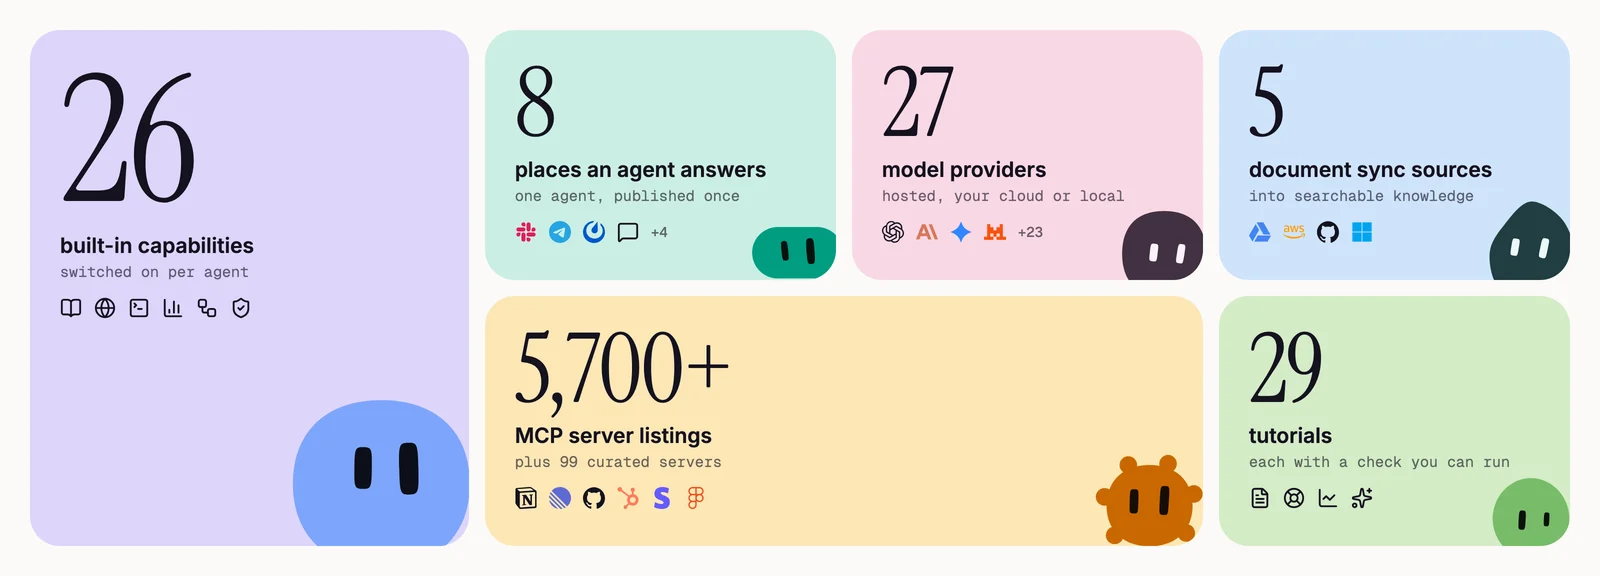
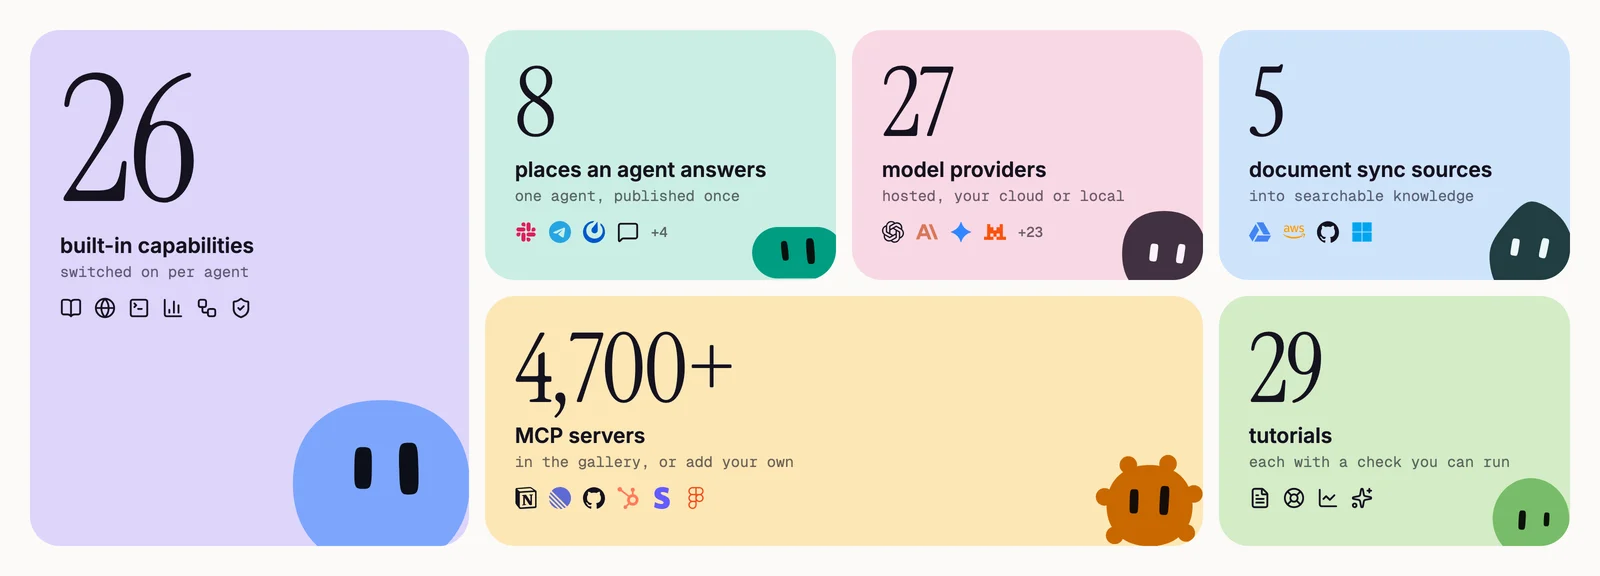
docs: quote one MCP count, the gallery's
The README, the figures, the tour, llms.txt and the features and MCP
pages each said 99 curated servers plus 5,700+ registry listings, or 5,802
in the picker. The gallery shows 4,749 - mirrored listings a check found
dead, broken or duplicated are not on it - so every place now says
4,700+ servers in the gallery and nothing else.

Changed region(s): [[0.3125, 0.5625, 0.4688, 0.7188], [0.3125, 0.75, 0.5, 0.8125]]

diff --git a/docs/assets/readme/figures.html b/docs/assets/readme/figures.html
@@ -185,7 +185,7 @@
       <div class="marks"><i class="mk" data-mark="openai"></i><i class="mk" data-mark="anthropic"></i><i class="mk" data-mark="google"></i><i class="mk" data-mark="mistral"></i><span class="more">+23</span></div><i class="cast s" data-bare="momo"></i></div>
     <div class="tile sky"><div class="n">5</div><div class="what">document sync sources</div><div class="sub">into searchable knowledge</div>
       <div class="marks"><i class="mk" data-mark="gdrive"></i><i class="mk" data-mark="s3"></i><i class="mk" data-mark="github"></i><i class="mk" data-mark="microsoft"></i></div><i class="cast s" data-bare="tofu"></i></div>
-    <div class="tile butter wide"><div class="n">5,700+</div><div class="what">MCP server listings</div><div class="sub">plus 99 curated servers</div>
+    <div class="tile butter wide"><div class="n">4,700+</div><div class="what">MCP servers</div><div class="sub">in the gallery, or add your own</div>
       <div class="marks"><i class="mk" data-mark="notion"></i><i class="mk" data-mark="linear"></i><i class="mk" data-mark="github"></i><i class="mk" data-mark="hubspot"></i><i class="mk" data-mark="stripe"></i><i class="mk" data-mark="figma"></i></div><i class="cast" data-bare="tide"></i></div>
     <div class="tile sage"><div class="n">29</div><div class="what">tutorials</div><div class="sub">each with a check you can run</div>
       <div class="marks"><i class="ico" data-icon="FileText"></i><i class="ico" data-icon="LifeBuoy"></i><i class="ico" data-icon="ChartLine"></i><i class="ico" data-icon="Sparkles"></i></div><i class="cast s" data-bare="pip"></i></div>
@@ -309,7 +309,7 @@
       <i class="cast" data-bare="agenticos" style="width:170px;height:170px;right:-40px;bottom:-60px"></i></div></div>
     <div class="tile rose right"><div class="rowhead"><span class="label">Tools it can use · MCP</span><span class="label">per-tool allow-lists</span></div>
       <div class="tools"><span><i class="mk" data-mark="notion"></i>Notion</span><span><i class="mk" data-mark="linear"></i>Linear</span><span><i class="mk" data-mark="atlassian"></i>Jira &amp; Confluence</span><span><i class="mk" data-mark="github"></i>GitHub</span><span><i class="mk" data-mark="gitlab"></i>GitLab</span><span><i class="mk" data-mark="sentry"></i>Sentry</span><span><i class="mk" data-mark="postgres"></i>PostgreSQL</span><span><i class="mk" data-mark="hubspot"></i>HubSpot</span><span><i class="mk" data-mark="asana"></i>Asana</span><span><i class="mk" data-mark="stripe"></i>Stripe</span><span><i class="mk" data-mark="supabase"></i>Supabase</span><span><i class="mk" data-mark="airtable"></i>Airtable</span><span><i class="mk" data-mark="figma"></i>Figma</span><span><i class="mk" data-mark="zapier"></i>Zapier</span><span><i class="mk" data-mark="n8n"></i>n8n</span><span><i class="mk" data-mark="clickup"></i>ClickUp</span><span><i class="mk" data-mark="trello"></i>Trello</span><span><i class="mk" data-mark="miro"></i>Miro</span><span><i class="mk" data-mark="datadog"></i>Datadog</span><span><i class="mk" data-mark="snowflake"></i>Snowflake</span><span><i class="mk" data-mark="bigquery"></i>BigQuery</span><span><i class="mk" data-mark="shopify"></i>Shopify</span><span><i class="mk" data-mark="intercom"></i>Intercom</span><span><i class="mk" data-mark="dropbox"></i>Dropbox</span></div>
-      <p style="font-size:16px"><b style="color:var(--ink)">99 curated</b> servers, of which these are 24, plus <b style="color:var(--ink)">5,700+ registry listings</b> and your own servers.</p></div>
+      <p style="font-size:16px"><b style="color:var(--ink)">4,700+ servers</b> in the gallery, of which these are 24, and your own servers.</p></div>
     <div class="tile sky bottom"><div class="rowhead"><span class="label">Documents it reads · knowledge bases</span><span class="label">synced on a schedule, or uploaded</span></div>
       <div class="chips"><span class="chip"><i class="mk" data-mark="gdrive"></i>Google Drive</span><span class="chip"><i class="mk" data-mark="s3"></i>S3 / MinIO</span><span class="chip"><i class="mk" data-mark="github"></i>Git repositories</span><span class="chip"><i class="ico" data-icon="Globe"></i>Websites</span><span class="chip"><i class="mk" data-mark="microsoft"></i>SharePoint &amp; OneDrive</span></div><i class="cast s" data-bare="tofu"></i></div>
   </div>

diff --git a/docs/presentation/tour/index.html b/docs/presentation/tour/index.html
@@ -722,7 +722,7 @@ body.presenter{background:#15121F;color:#F8F7FC;overflow:auto;display:flex;flex-
       <h3>Everything it connects to</h3><p>One layer in the middle; every connection passes the same roles, budgets, approvals and record.</p>
       <ol class="legend"><li><span><b>Models</b> it thinks with</span></li><li><span><b>Where people</b> reach it</span></li><li><span><b>What starts</b> it</span></li><li><span><b>Tools</b> it can use, through MCP</span></li><li><span><b>Documents</b> it reads</span></li></ol></div></div>
   <div class="step right mid" data-n="1" data-focus="@integrations-hub.models"><div class="card"><div class="ct"><span class="badge">1</span><span class="eyebrow">Models</span></div><h3>27 providers, switch per agent</h3><p>Hosted providers, your Azure, Bedrock or Vertex contract, or local models through Ollama and vLLM.</p></div></div>
-  <div class="step right mid" data-n="4" data-focus="@integrations-hub.tools"><div class="card"><div class="ct"><span class="badge">4</span><span class="eyebrow">Tools</span></div><h3>Your business apps, as tools</h3><p>99 curated MCP servers and 5,700+ registry listings. You choose which of a server's tools each agent may call.</p></div></div>
+  <div class="step right mid" data-n="4" data-focus="@integrations-hub.tools"><div class="card"><div class="ct"><span class="badge">4</span><span class="eyebrow">Tools</span></div><h3>Your business apps, as tools</h3><p>4,700+ MCP servers in the gallery. You choose which of a server's tools each agent may call.</p></div></div>
   <div class="step right mid" data-n="5" data-focus="@integrations-hub.documents"><div class="card"><div class="ct"><span class="badge">5</span><span class="eyebrow">Documents</span></div><h3>Knowledge that stays current</h3><p>Google Drive, S3, Git, websites, SharePoint and OneDrive, synced on a schedule into searchable knowledge bases.</p></div></div>
 </section>
 

diff --git a/README.es.md b/README.es.md
@@ -1,4 +1,4 @@
-<!-- source_sha: 09538101c2de -->
+<!-- source_sha: c69514cfbe34 -->
 
 <div align="center">
 
@@ -101,9 +101,9 @@ Funciona en tu propia infraestructura con Docker Compose y es compatible con 27 
 
 **Cómo encaja AgenticOS en una empresa:** departamentos como finanzas, operaciones o la dirección usan agentes compartidos en el chat web, Slack o un workspace privado. Tus sistemas llaman a los agentes mediante la API, y los eventos o las programaciones los inician automáticamente. Cada solicitud pasa por los mismos controles: roles, budgets, aprobaciones, guardrails y un run registrado. Tus datos, vectores, sandboxes de código, el vault de credenciales y los modelos locales opcionales permanecen en tu infraestructura. Los modelos alojados, las herramientas SaaS y las fuentes de documentos externas solo se usan cuando las configuras.
 
-<img src="docs/assets/readme/figures.webp" alt="26 capabilities integradas, activadas por agente; 8 lugares donde responde un agente; 27 providers de modelos, alojados, en tu nube o locales; 5 fuentes de sincronización de documentos; más de 5700 entradas de servidores MCP y 99 servidores seleccionados; 29 tutoriales, cada uno con una comprobación que puedes ejecutar." width="100%">
+<img src="docs/assets/readme/figures.webp" alt="26 capabilities integradas, activadas por agente; 8 lugares donde responde un agente; 27 providers de modelos, alojados, en tu nube o locales; 5 fuentes de sincronización de documentos; más de 4700 servidores MCP en la galería; 29 tutoriales, cada uno con una comprobación que puedes ejecutar." width="100%">
 
-<p align="center"><sub><b>De un vistazo:</b> 26 capabilities integradas · 8 lugares donde responde un agente · 27 providers de modelos · 5 fuentes de sincronización de documentos · más de 5700 entradas de servidores MCP y 99 servidores seleccionados · 29 tutoriales.</sub></p>
+<p align="center"><sub><b>De un vistazo:</b> 26 capabilities integradas · 8 lugares donde responde un agente · 27 providers de modelos · 5 fuentes de sincronización de documentos · más de 4700 servidores MCP en la galería · 29 tutoriales.</sub></p>
 
 ## ✨ Qué puedes hacer
 
@@ -150,7 +150,7 @@ AgenticOS conecta los agentes con los modelos, las herramientas de chat, las apl
 | Conectar | Cómo | Más información |
 |---|---|---|
 | **Herramientas de chat** | Publica un agente en Slack, Mattermost o Telegram, un widget para sitios web, una página alojada, la API o un WebSocket | [Canales](https://vstorm-co.github.io/agenticos/es/channels/) |
-| **Herramientas de negocio** | 99 servidores MCP seleccionados (Notion, GitHub, Jira, HubSpot, Stripe…) más **más de 5700 entradas del registro** y tus propios servidores; elige qué herramientas puede llamar cada agente | [MCP](https://vstorm-co.github.io/agenticos/es/mcp/) |
+| **Herramientas de negocio** | **más de 4700 servidores MCP** en la galería (Notion, GitHub, Jira, HubSpot, Stripe…) y tus propios servidores; elige qué herramientas puede llamar cada agente | [MCP](https://vstorm-co.github.io/agenticos/es/mcp/) |
 | **Documentos** | Sincroniza Google Drive, S3/MinIO, repositorios Git, sitios web, SharePoint y OneDrive en bases de conocimiento | [Fuentes de sincronización](https://vstorm-co.github.io/agenticos/es/howto/configure-sync-sources/) |
 | **Eventos** | Inicia agentes según un horario, una nueva issue de GitHub, un mensaje de Gmail o un webhook firmado | [Rutinas](https://vstorm-co.github.io/agenticos/es/triggers/) |
 | **Modelos** | 27 providers, tu contrato en la nube (Azure, Bedrock, Vertex) o modelos locales (Ollama, vLLM) | [Modelos](https://vstorm-co.github.io/agenticos/es/models/) |

diff --git a/README.pl.md b/README.pl.md
@@ -1,4 +1,4 @@
-<!-- source_sha: 09538101c2de -->
+<!-- source_sha: c69514cfbe34 -->
 
 <div align="center">
 
@@ -101,9 +101,9 @@ Działa na Twojej infrastrukturze z Docker Compose i współpracuje z 27 dostawc
 
 **Jak AgenticOS wpisuje się w firmę:** działy takie jak finanse, operacje czy zarząd korzystają ze wspólnych agentów w czacie internetowym, Slacku lub prywatnym workspace. Twoje systemy wywołują agentów przez API, a zdarzenia lub harmonogramy uruchamiają ich automatycznie. Każde żądanie przechodzi przez te same kontrole: role, budżety, zatwierdzenia, guardraile i zapis runa. Twoje dane, wektory, sandboxy kodu, vault z poświadczeniami i opcjonalne modele lokalne pozostają na Twojej infrastrukturze. Modele hostowane, narzędzia SaaS i zewnętrzne źródła dokumentów są używane tylko wtedy, gdy je skonfigurujesz.
 
-<img src="docs/assets/readme/figures.webp" alt="26 wbudowanych capabilities, włączanych dla każdego agenta osobno; 8 miejsc, w których agent odpowiada; 27 dostawców modeli: hostowanych, w Twojej chmurze lub lokalnych; 5 źródeł synchronizacji dokumentów; ponad 5700 wpisów serwerów MCP oraz 99 wybranych serwerów; 29 poradników, każdy ze sprawdzianem, który możesz uruchomić." width="100%">
+<img src="docs/assets/readme/figures.webp" alt="26 wbudowanych capabilities, włączanych dla każdego agenta osobno; 8 miejsc, w których agent odpowiada; 27 dostawców modeli: hostowanych, w Twojej chmurze lub lokalnych; 5 źródeł synchronizacji dokumentów; ponad 4700 serwerów MCP w galerii; 29 poradników, każdy ze sprawdzianem, który możesz uruchomić." width="100%">
 
-<p align="center"><sub><b>W skrócie:</b> 26 wbudowanych capabilities · 8 miejsc, w których agent odpowiada · 27 dostawców modeli · 5 źródeł synchronizacji dokumentów · ponad 5700 wpisów serwerów MCP i 99 wybranych serwerów · 29 poradników.</sub></p>
+<p align="center"><sub><b>W skrócie:</b> 26 wbudowanych capabilities · 8 miejsc, w których agent odpowiada · 27 dostawców modeli · 5 źródeł synchronizacji dokumentów · ponad 4700 serwerów MCP · 29 poradników.</sub></p>
 
 ## ✨ Co możesz zrobić
 
@@ -150,7 +150,7 @@ AgenticOS łączy agentów z modelami, komunikatorami, aplikacjami biznesowymi i
 | Połącz | Jak | Więcej |
 |---|---|---|
 | **Komunikatory** | Opublikuj agenta w Slacku, Mattermost lub Telegramie, w widżecie na stronie, na hostowanej stronie, przez API lub WebSocket | [Kanały](https://vstorm-co.github.io/agenticos/pl/channels/) |
-| **Narzędzia biznesowe** | 99 wybranych serwerów MCP (Notion, GitHub, Jira, HubSpot, Stripe…) oraz **ponad 5700 wpisów z rejestru** i Twoje własne serwery; wybierz, które narzędzia może wywoływać każdy agent | [MCP](https://vstorm-co.github.io/agenticos/pl/mcp/) |
+| **Narzędzia biznesowe** | **ponad 4700 serwerów MCP** w galerii (Notion, GitHub, Jira, HubSpot, Stripe…) i Twoje własne serwery; wybierz, które narzędzia może wywoływać każdy agent | [MCP](https://vstorm-co.github.io/agenticos/pl/mcp/) |
 | **Dokumenty** | Synchronizuj Google Drive, S3/MinIO, repozytoria Git, strony internetowe, SharePoint i OneDrive z bazami wiedzy | [Źródła synchronizacji](https://vstorm-co.github.io/agenticos/pl/howto/configure-sync-sources/) |
 | **Zdarzenia** | Uruchamiaj agentów według harmonogramu, po nowym issue na GitHubie, wiadomości w Gmailu lub podpisanym webhooku | [Rutyny](https://vstorm-co.github.io/agenticos/pl/triggers/) |
 | **Modele** | 27 dostawców, Twoja umowa chmurowa (Azure, Bedrock, Vertex) lub modele lokalne (Ollama, vLLM) | [Modele](https://vstorm-co.github.io/agenticos/pl/models/) |

diff --git a/README.de.md b/README.de.md
@@ -1,4 +1,4 @@
-<!-- source_sha: 09538101c2de -->
+<!-- source_sha: c69514cfbe34 -->
 
 <div align="center">
 
@@ -101,9 +101,9 @@ Es läuft mit Docker Compose auf deiner eigenen Infrastruktur und arbeitet mit 2
 
 **Wie sich AgenticOS in ein Unternehmen einfügt:** Abteilungen wie Finanzen, Betrieb oder Vorstand nutzen gemeinsame Agenten im Webchat, in Slack oder in einem privaten Workspace. Deine Systeme rufen Agenten über die API auf, und Ereignisse oder Zeitpläne starten sie automatisch. Jede Anfrage durchläuft dieselben Kontrollen: Rollen, Budgets, Freigaben, Guardrails und einen aufgezeichneten Run. Deine Daten, Vektoren, Code-Sandboxes, der Vault für Zugangsdaten und optionale lokale Modelle bleiben auf deiner Infrastruktur. Gehostete Modelle, SaaS-Werkzeuge und externe Dokumentquellen werden nur genutzt, wenn du sie konfigurierst.
 
-<img src="docs/assets/readme/figures.webp" alt="26 integrierte Capabilities, pro Agent einschaltbar; 8 Orte, an denen ein Agent antwortet; 27 Modellanbieter, gehostet, in deiner Cloud oder lokal; 5 Quellen für die Dokumentsynchronisation; über 5.700 MCP-Servereinträge plus 99 kuratierte Server; 29 Tutorials, jedes mit einer Prüfung, die du ausführen kannst." width="100%">
+<img src="docs/assets/readme/figures.webp" alt="26 integrierte Capabilities, pro Agent einschaltbar; 8 Orte, an denen ein Agent antwortet; 27 Modellanbieter, gehostet, in deiner Cloud oder lokal; 5 Quellen für die Dokumentsynchronisation; über 4.700 MCP-Server in der Galerie; 29 Tutorials, jedes mit einer Prüfung, die du ausführen kannst." width="100%">
 
-<p align="center"><sub><b>Auf einen Blick:</b> 26 integrierte Capabilities · 8 Orte, an denen ein Agent antwortet · 27 Modellanbieter · 5 Synchronisationsquellen für Dokumente · über 5.700 MCP-Servereinträge und 99 kuratierte Server · 29 Tutorials.</sub></p>
+<p align="center"><sub><b>Auf einen Blick:</b> 26 integrierte Capabilities · 8 Orte, an denen ein Agent antwortet · 27 Modellanbieter · 5 Synchronisationsquellen für Dokumente · über 4.700 MCP-Server · 29 Tutorials.</sub></p>
 
 ## ✨ Was du damit machen kannst
 
@@ -150,7 +150,7 @@ AgenticOS verbindet Agenten mit den Modellen, Chatwerkzeugen, Geschäftsanwendun
 | Verbinden | Wie | Mehr dazu |
 |---|---|---|
 | **Chatwerkzeuge** | Veröffentliche einen Agenten in Slack, Mattermost oder Telegram, als Website-Widget, gehostete Seite, über die API oder einen WebSocket | [Kanäle](https://vstorm-co.github.io/agenticos/de/channels/) |
-| **Geschäftswerkzeuge** | 99 kuratierte MCP-Server (Notion, GitHub, Jira, HubSpot, Stripe…) plus **über 5.700 Registry-Einträge** und eigene Server; wähle, welche Werkzeuge jeder Agent aufrufen darf | [MCP](https://vstorm-co.github.io/agenticos/de/mcp/) |
+| **Geschäftswerkzeuge** | **über 4.700 MCP-Server** in der Galerie (Notion, GitHub, Jira, HubSpot, Stripe…) und eigene Server; wähle, welche Werkzeuge jeder Agent aufrufen darf | [MCP](https://vstorm-co.github.io/agenticos/de/mcp/) |
 | **Dokumente** | Synchronisiere Google Drive, S3/MinIO, Git-Repositories, Websites, SharePoint und OneDrive in Wissensbasen | [Synchronisationsquellen](https://vstorm-co.github.io/agenticos/de/howto/configure-sync-sources/) |
 | **Ereignisse** | Starte Agenten nach Zeitplan, bei einem neuen GitHub-Issue, einer Gmail-Nachricht oder einem signierten Webhook | [Routinen](https://vstorm-co.github.io/agenticos/de/triggers/) |
 | **Modelle** | 27 Anbieter, dein Cloud-Vertrag (Azure, Bedrock, Vertex) oder lokale Modelle (Ollama, vLLM) | [Modelle](https://vstorm-co.github.io/agenticos/de/models/) |

diff --git a/README.md b/README.md
@@ -99,9 +99,9 @@ It runs on your own infrastructure with Docker Compose and works with 27 model p
 
 **How AgenticOS fits into a company:** departments such as finance, operations or the board use shared agents in web chat, Slack or a private workspace. Your systems call agents through the API, and events or schedules start them automatically. Every request passes the same controls: roles, budgets, approvals, guardrails and a recorded run. Your data, vectors, code sandboxes, the credential vault and optional local models stay on your infrastructure. Hosted models, SaaS tools and document sources outside are used only when you configure them.
 
-<img src="docs/assets/readme/figures.webp" alt="26 built-in capabilities, switched on per agent; 8 places an agent answers; 27 model providers, hosted, your cloud or local; 5 document sync sources; 5,700+ MCP server listings plus 99 curated servers; 29 tutorials, each with a check you can run." width="100%">
+<img src="docs/assets/readme/figures.webp" alt="26 built-in capabilities, switched on per agent; 8 places an agent answers; 27 model providers, hosted, your cloud or local; 5 document sync sources; 4,700+ MCP servers in the gallery; 29 tutorials, each with a check you can run." width="100%">
 
-<p align="center"><sub><b>At a glance:</b> 26 built-in capabilities · 8 places an agent answers · 27 model providers · 5 document sync sources · 5,700+ MCP server listings and 99 curated servers · 29 tutorials.</sub></p>
+<p align="center"><sub><b>At a glance:</b> 26 built-in capabilities · 8 places an agent answers · 27 model providers · 5 document sync sources · 4,700+ MCP servers · 29 tutorials.</sub></p>
 
 ## ✨ What you can do
 
@@ -148,7 +148,7 @@ AgenticOS connects agents to the models, chat tools, business apps and document 
 | Connect | How | Read |
 |---|---|---|
 | **Chat tools** | Publish an agent to Slack, Mattermost or Telegram, a website widget, a hosted page, the API or a WebSocket | [Channels](https://vstorm-co.github.io/agenticos/channels/) |
-| **Business tools** | 99 curated MCP servers (Notion, GitHub, Jira, HubSpot, Stripe…) plus **5,700+ registry listings** and your own servers; choose which tools each agent may call | [MCP](https://vstorm-co.github.io/agenticos/mcp/) |
+| **Business tools** | **4,700+ MCP servers** in the gallery (Notion, GitHub, Jira, HubSpot, Stripe…) and your own servers; choose which tools each agent may call | [MCP](https://vstorm-co.github.io/agenticos/mcp/) |
 | **Documents** | Sync Google Drive, S3/MinIO, Git repositories, websites, SharePoint and OneDrive into knowledge bases | [Sync sources](https://vstorm-co.github.io/agenticos/howto/configure-sync-sources/) |
 | **Events** | Start agents on a schedule, a new GitHub issue, a Gmail message or a signed webhook | [Routines](https://vstorm-co.github.io/agenticos/triggers/) |
 | **Models** | 27 providers, your cloud contract (Azure, Bedrock, Vertex) or local models (Ollama, vLLM) | [Models](https://vstorm-co.github.io/agenticos/models/) |

diff --git a/docs/mcp.pl.md b/docs/mcp.pl.md
@@ -1,5 +1,5 @@
 ---
-source_sha: "83b5148aaf63"
+source_sha: "05ff7bf4ae50"
 ---
 
 # MCP — narzędzia, których nikt tutaj nie musi pisać { #mcp-the-tools-nobody-here-has-to-write }
@@ -579,7 +579,7 @@ działa, że opis jest uczciwy — a odbity rejestr takiej obietnicy złożyć n
     Po zestawieniu z tym katalogiem **cztery** z tych hostów należały do firmy,
     którą większość czytelników by rozpoznała, i tutaj ich brakowało — CircleCI,
     New Relic, Statsig i Lusha, wszystkie cztery są już na liście. Reszta
-    z nieobjętych pięciu tysięcy z okładem to serwery jednoprojektowe, proxy na
+    z nieobjętych hostów to serwery jednoprojektowe, proxy na
     `workers.dev`, narzędzia SEO i gry: alfabetycznie pierwsze z brzegu to
     wyszukiwarka cen gruntów, narzędzie do przetargów dla wykonawców i węgierski
     serwis wyceny okien.
@@ -591,8 +591,8 @@ działa, że opis jest uczciwy — a odbity rejestr takiej obietnicy złożyć n
 ### Rejestr jest na tej samej liście i w bazie danych { #the-registry-is-in-the-same-list-and-in-the-database }
 
 Lustro jest więc dostarczane razem z nim, a **/mcp to jedna lista ich
-wszystkich** — najpierw wyselekcjonowana setka, potem 5703 odbite serwery,
-stronicowane. Nie wyselekcjonowana siatka z wyszukiwarką sięgającą dalej: jedna
+wszystkich** — najpierw wyselekcjonowany katalog, potem odbity rejestr, stronicowane:
+ponad 4700 serwerów, tyle, ile pokazuje galeria. Nie wyselekcjonowana siatka z wyszukiwarką sięgającą dalej: jedna
 lista, jeden pager, jeden licznik.
 
 To wymagało tabeli. `mcp_registry_servers` jest wspólna dla całego deploymentu
@@ -602,7 +602,7 @@ pytanie odwrotnie, a różnica polega na tym, że katalog nie jest danymi tenant
 Wypełnia ją `agenticos cmd mcp-registry-sync`, z dołączonego snapshotu albo,
 z `--fetch`, z żywego rejestru.
 
-Trzymane w bazie danych, bo pliku nie da się stronicować. Mając 5703 wpisy
+Trzymane w bazie danych, bo pliku nie da się stronicować. Mając tysiące wpisów
 w pamięci, dałoby się odpowiedzieć na „serwery pasujące do »linear«”, ale nie na
 „czwartą stronę ich wszystkich” bez wczytania całości i pokrojenia jej. Wraz
 z tym do SQL-a przeniosło się rankowanie, z tego samego powodu: rankowanie strony

diff --git a/docs/mcp.es.md b/docs/mcp.es.md
@@ -1,5 +1,5 @@
 ---
-source_sha: "83b5148aaf63"
+source_sha: "05ff7bf4ae50"
 ---
 
 # MCP — las herramientas que aquí nadie tiene que escribir { #mcp-the-tools-nobody-here-has-to-write }
@@ -594,8 +594,8 @@ puede hacer esa promesa.
 
     Cruzado con este catálogo, **cuatro** de esos hosts pertenecían a una empresa
     que la mayoría de los lectores reconocería y faltaban aquí — CircleCI, New
-    Relic, Statsig y Lusha, los cuatro ya listados. El resto de los algo más de
-    5.000 sin cubrir son servidores de un solo proyecto, proxies en `workers.dev`,
+    Relic, Statsig y Lusha, los cuatro ya listados. El resto de los hosts
+    sin cubrir son servidores de un solo proyecto, proxies en `workers.dev`,
     herramientas de SEO y juegos: alfabéticamente, los primeros son una consulta de
     precios del suelo, una herramienta de licitación para contratistas y un
     servicio húngaro de presupuestos de ventanas.
@@ -608,7 +608,8 @@ puede hacer esa promesa.
 ### El registro está en la misma lista, y en la base de datos { #the-registry-is-in-the-same-list-and-in-the-database }
 
 Así que el espejo también se envía, y **/mcp es una sola lista con todos ellos** —
-el centenar curado primero, y luego 5.703 servidores replicados, paginados. No una
+el catálogo curado primero, y luego el registro replicado, paginados: más de
+4.700 servidores, la cifra que muestra la galería. No una
 rejilla curada con una búsqueda que llega más lejos: una lista, un paginador, un
 recuento.
 
@@ -619,8 +620,8 @@ revés, y la diferencia es que un catálogo no son datos de un tenant. La llena
 `agenticos cmd mcp-registry-sync`, desde la instantánea empaquetada o, con
 `--fetch`, desde el registro en vivo.
 
-Guardado en la base de datos porque un archivo no se puede paginar. Cinco mil
-setecientas tres entradas en memoria podrían responder a «servidores que casan con
+Guardado en la base de datos porque un archivo no se puede paginar. Miles de
+entradas en memoria podrían responder a «servidores que casan con
 'linear'» y no podrían responder a «la cuarta página de todos ellos» sin cargarlo
 todo y cortarlo. El ranking se movió a SQL con ello, por la misma razón: ordenar
 una página es ordenar lo que esa página haya contenido. Tres bandas — el servidor

diff --git a/docs/mcp.de.md b/docs/mcp.de.md
@@ -1,5 +1,5 @@
 ---
-source_sha: "83b5148aaf63"
+source_sha: "05ff7bf4ae50"
 ---
 
 # MCP — die Tools, die hier niemand schreiben muss { #mcp-the-tools-nobody-here-has-to-write }
@@ -607,7 +607,7 @@ angesehen hat, dass der Auth-Flow funktioniert, dass die Beschreibung ehrlich is
     Gegen diesen Katalog abgeglichen gehörten **vier** dieser Hosts zu einem
     Unternehmen, das die meisten Leser wiedererkennen würden, und fehlten hier —
     CircleCI, New Relic, Statsig und Lusha, alle vier jetzt gelistet. Der Rest der
-    rund 5.000 nicht abgedeckten sind Einzelprojekt-Server, Proxys auf
+    nicht abgedeckten Hosts sind Einzelprojekt-Server, Proxys auf
     `workers.dev`, SEO-Werkzeuge und Spiele: alphabetisch sind die ersten paar eine
     Grundstückspreis-Abfrage, ein Werkzeug für Handwerkerangebote und ein
     ungarischer Fensterkalkulationsdienst.
@@ -620,7 +620,8 @@ angesehen hat, dass der Auth-Flow funktioniert, dass die Beschreibung ehrlich is
 ### Die Registry steht in derselben Liste, und in der Datenbank { #the-registry-is-in-the-same-list-and-in-the-database }
 
 Der Spiegel wird also mitgeliefert, und **/mcp ist eine Liste über alle** — die
-kuratierten hundert zuerst, dann 5.703 gespiegelte Server, seitenweise. Kein
+kuratierte Katalog zuerst, dann das gespiegelte Register, seitenweise: über 4.700
+Server, die Zahl, die die Galerie zeigt. Kein
 kuratiertes Raster mit einer Suche, die weiter reicht: eine Liste, ein Pager, eine
 Zählung.
 
@@ -632,7 +633,7 @@ wird von `agenticos cmd mcp-registry-sync` gefüllt, aus dem mitgelieferten Snap
 oder, mit `--fetch`, aus der Live-Registry.
 
 In der Datenbank gehalten, weil sich eine Datei nicht seitenweise ausgeben lässt.
-5.703 Einträge im Speicher könnten „Server, die auf 'linear' passen“ beantworten
+Tausende Einträge im Speicher könnten „Server, die auf 'linear' passen“ beantworten
 und nicht „die vierte Seite von allen“, ohne alles zu laden und zu schneiden. Die
 Rangfolge ist aus demselben Grund mit in SQL gewandert: Eine Seite zu ranken heißt,
 zu ranken, was auf dieser Seite zufällig stand. Drei Bänder — der Server, der

diff --git a/backend/app/core/catalog/skill_gallery/software/agenticos-guide/docs/mcp.md b/backend/app/core/catalog/skill_gallery/software/agenticos-guide/docs/mcp.md
@@ -550,7 +550,7 @@ that the description is honest — and a mirrored registry cannot make that prom
     Cross-referenced against this catalog, **four** of those hosts belonged to a
     company most readers would recognise and were missing here — CircleCI, New
     Relic, Statsig and Lusha, all four now listed. The rest of the uncovered
-    5,000-odd are single-project servers, proxies on `workers.dev`, SEO tools and
+    hosts are single-project servers, proxies on `workers.dev`, SEO tools and
     games: alphabetically the first few are a land-price lookup, a contractor
     bidding tool and a Hungarian window-quote service.
 
@@ -561,7 +561,8 @@ that the description is honest — and a mirrored registry cannot make that prom
 ### The registry is in the same list, and in the database
 
 So the mirror is shipped too, and **/mcp is one list of all of them** — the
-curated hundred first, then 5,703 mirrored servers, paged. Not a curated grid
+curated catalog first, then the mirrored registry, paged: 4,700+ servers, the
+count the gallery shows. Not a curated grid
 with a search that reaches further: one list, one pager, one count.
 
 That needed a table. `mcp_registry_servers` is deployment-wide and has no
@@ -571,7 +572,7 @@ the other way, and the difference is that a catalog is not tenant data. It is
 filled by `agenticos cmd mcp-registry-sync`, from the bundled snapshot or, with
 `--fetch`, from the live registry.
 
-Held in the database because a file cannot be paged. 5,703 entries in memory
+Held in the database because a file cannot be paged. Thousands of entries in memory
 could answer "servers matching 'linear'" and could not answer "the fourth page of
 all of them" without loading the lot and slicing it. The ranking moved into SQL
 with it, for the same reason: ranking a page is ranking whatever that page

diff --git a/docs/mcp.md b/docs/mcp.md
@@ -550,7 +550,7 @@ that the description is honest — and a mirrored registry cannot make that prom
     Cross-referenced against this catalog, **four** of those hosts belonged to a
     company most readers would recognise and were missing here — CircleCI, New
     Relic, Statsig and Lusha, all four now listed. The rest of the uncovered
-    5,000-odd are single-project servers, proxies on `workers.dev`, SEO tools and
+    hosts are single-project servers, proxies on `workers.dev`, SEO tools and
     games: alphabetically the first few are a land-price lookup, a contractor
     bidding tool and a Hungarian window-quote service.
 
@@ -561,7 +561,8 @@ that the description is honest — and a mirrored registry cannot make that prom
 ### The registry is in the same list, and in the database
 
 So the mirror is shipped too, and **/mcp is one list of all of them** — the
-curated hundred first, then 5,703 mirrored servers, paged. Not a curated grid
+curated catalog first, then the mirrored registry, paged: 4,700+ servers, the
+count the gallery shows. Not a curated grid
 with a search that reaches further: one list, one pager, one count.
 
 That needed a table. `mcp_registry_servers` is deployment-wide and has no
@@ -571,7 +572,7 @@ the other way, and the difference is that a catalog is not tenant data. It is
 filled by `agenticos cmd mcp-registry-sync`, from the bundled snapshot or, with
 `--fetch`, from the live registry.
 
-Held in the database because a file cannot be paged. 5,703 entries in memory
+Held in the database because a file cannot be paged. Thousands of entries in memory
 could answer "servers matching 'linear'" and could not answer "the fourth page of
 all of them" without loading the lot and slicing it. The ranking moved into SQL
 with it, for the same reason: ranking a page is ranking whatever that page

diff --git a/docs/features.pl.md b/docs/features.pl.md
@@ -1,5 +1,5 @@
 ---
-source_sha: "089e7fa03d78"
+source_sha: "dc1db9e6554c"
 ---
 
 # Funkcje { #features }
@@ -120,11 +120,13 @@ Klucze są per organizacja, zapieczętowane w vaulcie i nigdy nie zwracane przez
 Podłącz serwer, a jego narzędzia pojawią się w Toolboksie, z przestrzenią nazw,
 więc dwa serwery oferujące `search` nie zderzą się ze sobą.
 
-**W wyborze jest 5802 serwerów.** 99 tych popularnych — GitHub, Linear, Notion,
-Slack, Stripe, Postgres — przychodzi z gotowo podłączonymi przepływami OAuth, bo
-ktoś tutaj podłączył każdy z nich i to sprawdził. Pozostałe 5703 są lustrzaną
-kopią publicznego rejestru MCP i da się je wyszukać po nazwie: nikt tutaj ich nie
-przejrzał, a lista mówi, którego rodzaju jest dany wiersz.
+**W galerii jest ponad 4700 serwerów** - tyle, ile pokazuje strona MCP servers.
+Te popularne - GitHub, Linear, Notion, Slack, Stripe, Postgres - przychodzą
+z gotowo podłączonymi przepływami OAuth, bo ktoś tutaj podłączył każdy z nich
+i to sprawdził. Pozostałe są lustrzaną kopią publicznego rejestru MCP i da się je
+wyszukać po nazwie: nikt tutaj ich nie przejrzał, lista mówi, którego rodzaju
+jest dany wiersz, a wpisu, który sprawdzenie uznało za martwy, zepsuty albo
+zdublowany, na niej nie ma.
 
 !!! info
 
